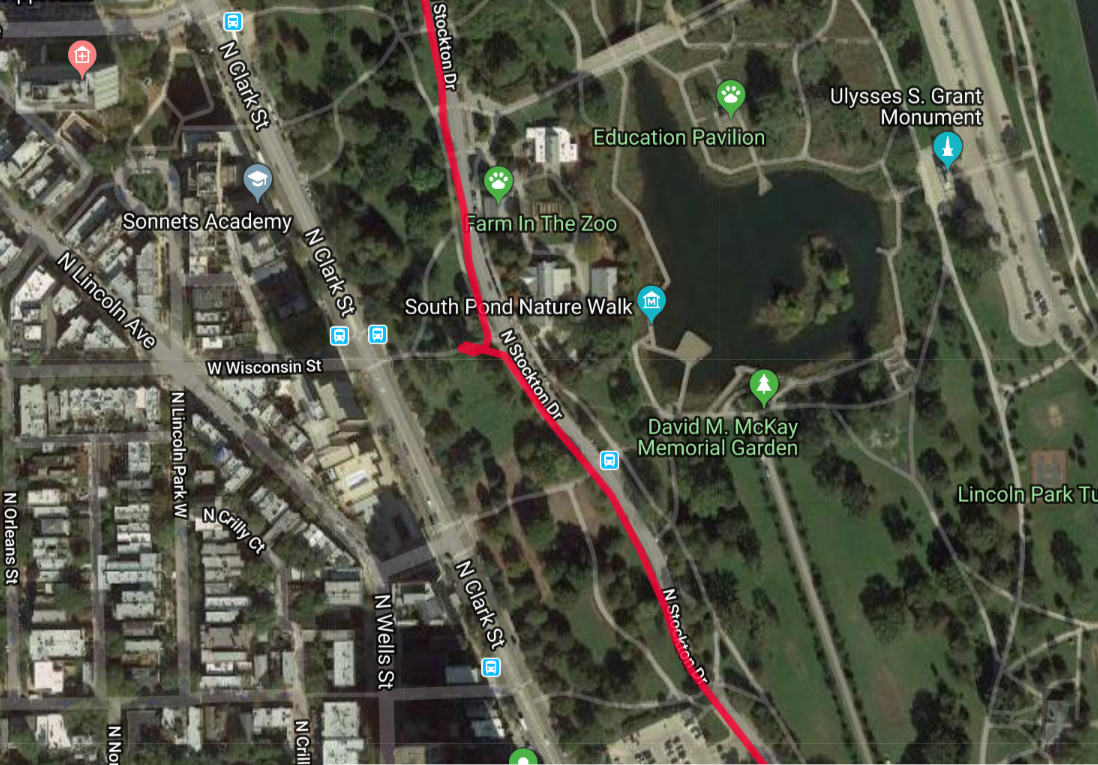
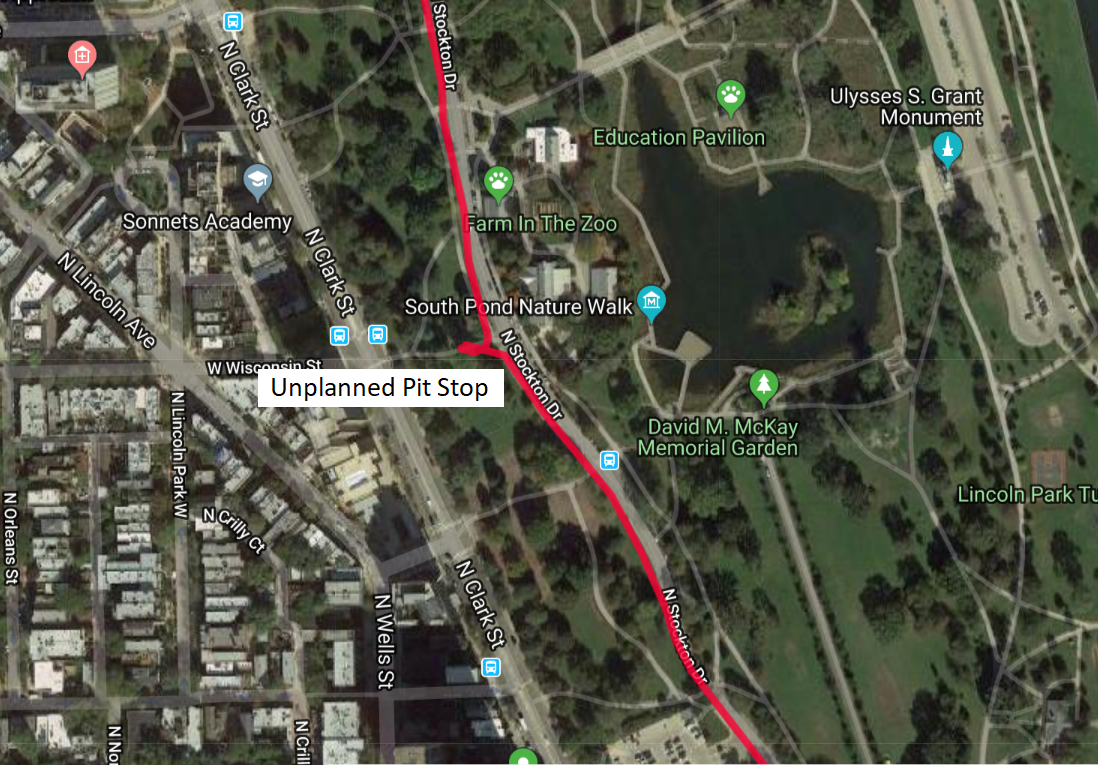
Finishing touches on 2019 Chicago Marathon post.

Changed region(s): [[0.2168, 0.481, 0.4645, 0.5412]]

diff --git a/_posts/2019/2019-10-14-2019-Chicago-Marathon.md b/_posts/2019/2019-10-14-2019-Chicago-Marathon.md
@@ -67,6 +67,8 @@ Come mile 8, I tried again to eat some LaraBar but with the same result. It was 
 
 Mile 11 had a quick pause to kiss my wife, then onward to the halfway point. At 01:31:20 for the first 13.1 miles, that beat my best Half Marathon time. It felt great to hit that milestone, but I could also tell that I was struggling. With the swirling wind, time lost to the pit stop, changes in my nutrition plan, and a general sense of dread at doing this for another hour-and-a-half, I almost gave myself a walking break right there. This was the first time I've hit this point at a Chicago Marathon this early.
 
+![Mount Halstead - it doesn't look big, but it sucks after 17 miles](/images/2019chi-mthalstead.png)
+
 I reminded myself of my first goal - get to 18 miles at BQ pace. That meant I just had to keep it up for 5 more miles; just 35 more minutes. Then it was just 28 more minutes, then just 21 more minutes, then just 14 more minutes - ok, I can do this for two more miles. The Halstead overpass between mile 17 and 18 is always a struggle. It's a big hill (by Chicago standards) that is very exposed to wind and car noise, and previously has been the first point where I usually start regretting my life decisions. This year was no different. But I had to run to 18 - just 3 more minutes.
 
 I did it. I got to mile 18, pulled off to the side, and had a coughing fit so hard that I nearly threw up. Shortly thereafter, the 03:05:00 pace group passed me. I slowly ran to the Gatorade energy gel table, squeezed down a packet of vanilla, grabbed some water to wash it down, and set off again. The new plan was to run for two miles then walk a little - four intervals and then it would be done.
@@ -81,7 +83,7 @@ Surprising even myself, that's exactly what I did for the rest of the race. The 
 
 I had put so much focus at the beginning of the year on qualifying for Boston that it took a little bit for it to sink in that I had indeed set a PR. I definitely needed to be proud of that. I had also hit my goal of staying in front of the 03:05:00 pace group for 18 miles. I have always been terrible at recognizing the achievement of completing a marathon, much less doing it faster than I've done before. I get caught up in the lofty goal that I set and then get down on myself for not hitting it.
 
-
+![Glad that I am finished](/images/2019chi-postrace.jpg)
 
 Wrapping it all up, I am grateful for having set a new personal record. I am grateful for the love and support of my entire family for encouraging me all through training. I am especially grateful to my wife for putting up with all the highs, the lows, the early mornings, the bitching and complaining, the smelly clothes, and that she is still so excited to come out on a cold Autumn morning to see me for a grand total of probably two whole minutes. It always has meant a lot to me and continues to mean a lot.
 
